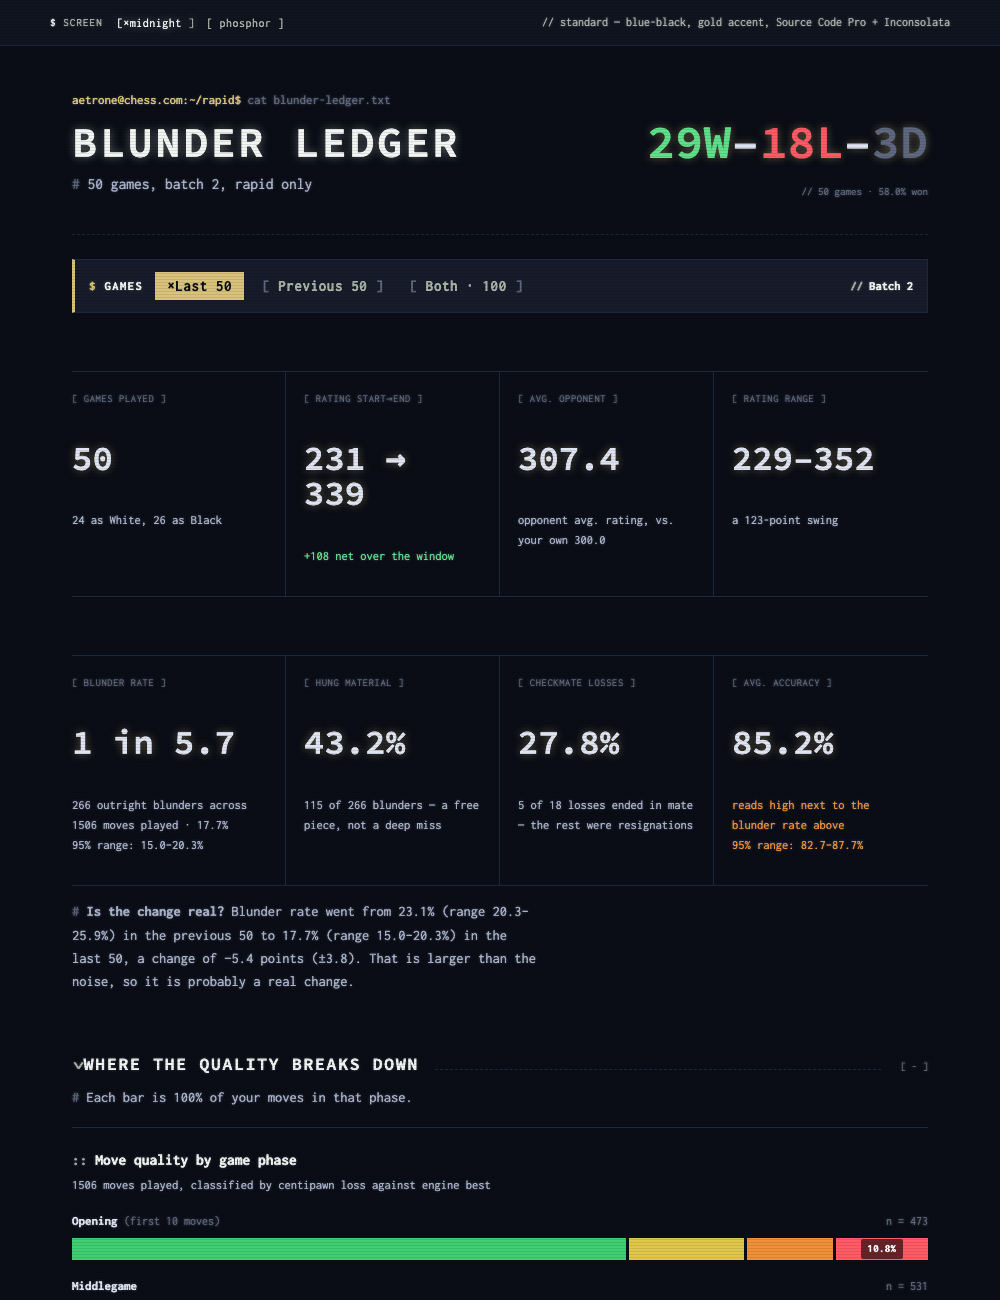
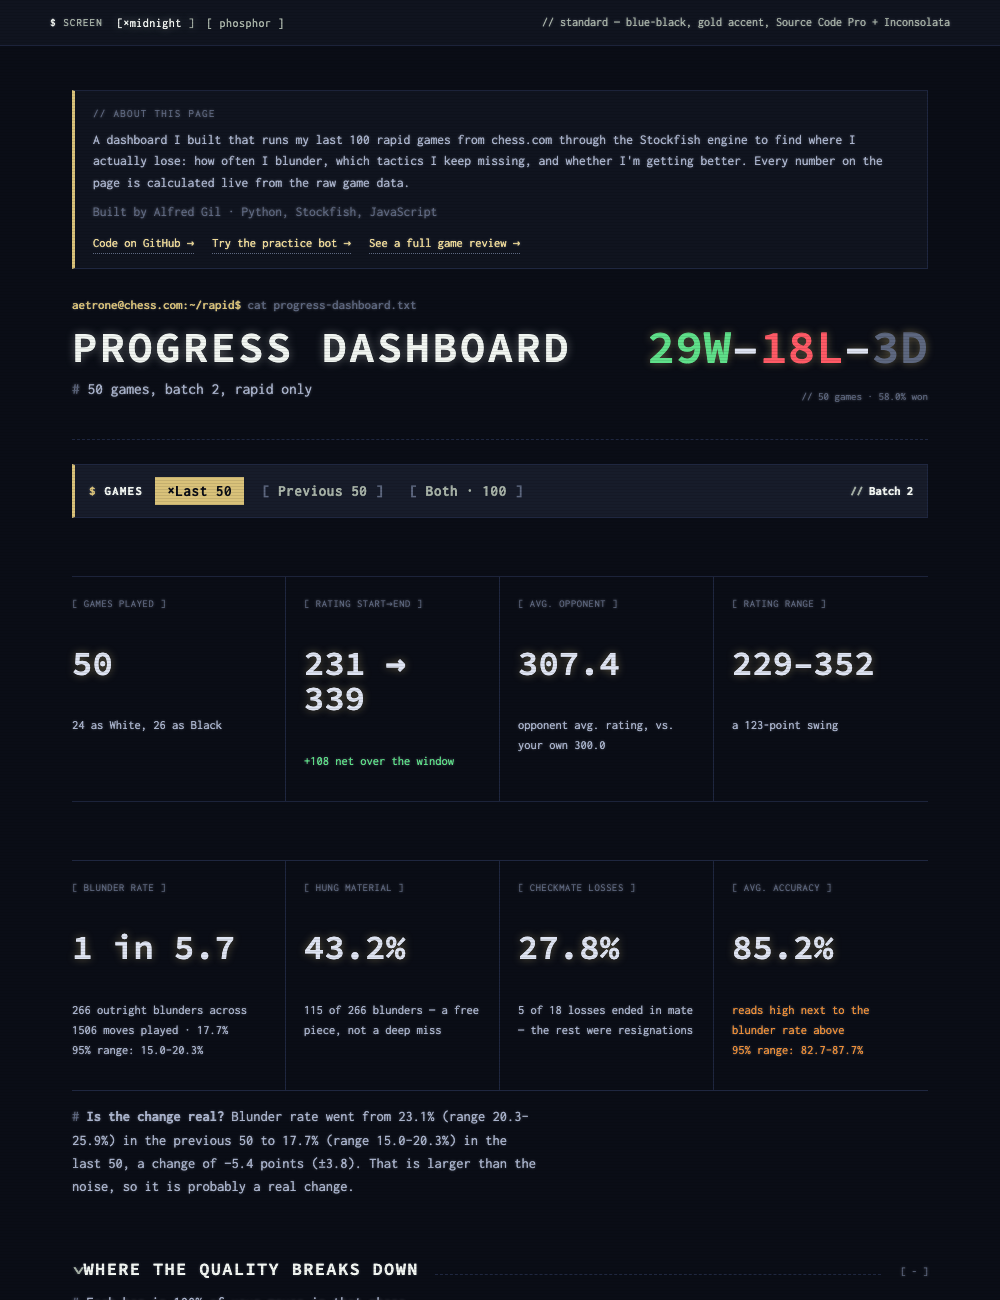
Rename tools: Progress Dashboard and Practice Bot
Updates page headlines, README, methodology, demo pages, and screenshots.
Game Review keeps its name; file names and links are unchanged.

diff --git a/docs/demo/practice.html b/docs/demo/practice.html
@@ -1,4 +1,4 @@
-<title>Blunder Bait</title>
+<title>Practice Bot</title>
 <link rel="preconnect" href="https://fonts.gstatic.com" crossorigin>
 <link rel="stylesheet" href="https://fonts.googleapis.com/css2?family=Source+Code+Pro:wght@500;600;700&family=Inconsolata:wght@400;500;700&display=swap">
 <style>
@@ -139,7 +139,7 @@
     <div>
       <p class="eyebrow">practice session</p>
       <div class="title-row">
-        <h1>Blunder Bait</h1>
+        <h1>Practice Bot</h1>
         <button class="btn ghost" id="btnReview">Review ↗</button>
       </div>
       <p class="sub">A sparring partner that leans into the tactical pattern you actually miss most — bot level and target recalculated from your latest bulk_review.py data each time you start a session.</p>
@@ -1596,7 +1596,7 @@
     document.getElementById("statTaken").textContent = state.baitTaken;
     document.getElementById("statPunished").textContent = Object.keys(state.punish).reduce(function (n, k) { return n + state.punish[k]; }, 0);
     document.getElementById("overBanner").innerHTML = state.over ? '<div class="over-banner">' + state.overText + "</div>" : "";
-    document.getElementById("footerNote").textContent = "The game in progress lives in this browser tab. Finished games and review runs are saved to this browser's own history (see History), kept separate from your real games and the ledger data. Run practice.py again to recheck your rating and blunder mix and rebuild this page.";
+    document.getElementById("footerNote").textContent = "The game in progress lives in this browser tab. Finished games and review runs are saved to this browser's own history (see History), kept separate from your real games and the dashboard data. Run practice.py again to recheck your rating and blunder mix and rebuild this page.";
   }
 
   // ---- events ----

diff --git a/templates/practice.html b/templates/practice.html
@@ -1,4 +1,4 @@
-<title>Blunder Bait</title>
+<title>Practice Bot</title>
 <link rel="preconnect" href="https://fonts.gstatic.com" crossorigin>
 <link rel="stylesheet" href="https://fonts.googleapis.com/css2?family=Source+Code+Pro:wght@500;600;700&family=Inconsolata:wght@400;500;700&display=swap">
 <style>
@@ -139,7 +139,7 @@
     <div>
       <p class="eyebrow">practice session</p>
       <div class="title-row">
-        <h1>Blunder Bait</h1>
+        <h1>Practice Bot</h1>
         <button class="btn ghost" id="btnReview">Review ↗</button>
       </div>
       <p class="sub">A sparring partner that leans into the tactical pattern you actually miss most — bot level and target recalculated from your latest bulk_review.py data each time you start a session.</p>
@@ -1596,7 +1596,7 @@
     document.getElementById("statTaken").textContent = state.baitTaken;
     document.getElementById("statPunished").textContent = Object.keys(state.punish).reduce(function (n, k) { return n + state.punish[k]; }, 0);
     document.getElementById("overBanner").innerHTML = state.over ? '<div class="over-banner">' + state.overText + "</div>" : "";
-    document.getElementById("footerNote").textContent = "The game in progress lives in this browser tab. Finished games and review runs are saved to this browser's own history (see History), kept separate from your real games and the ledger data. Run practice.py again to recheck your rating and blunder mix and rebuild this page.";
+    document.getElementById("footerNote").textContent = "The game in progress lives in this browser tab. Finished games and review runs are saved to this browser's own history (see History), kept separate from your real games and the dashboard data. Run practice.py again to recheck your rating and blunder mix and rebuild this page.";
   }
 
   // ---- events ----

diff --git a/templates/game-review.html b/templates/game-review.html
@@ -249,7 +249,7 @@
   /* Practice-sparring CTA (added 2026-09-18; enlarged into a
      proper card the same day — "pretty small... make it a little more
      apparent as to what that feature is for" — a bare text link didn't say
-     what chess-practice's Blunder Bait actually does, so this adds a one-line
+     what the Practice Bot actually does, so this adds a one-line
      description alongside the link, not just a bigger label. */
   .practice-cta { display: flex; align-items: center; gap: 14px; margin: 16px 0 0; padding: 14px 18px;
     border: 1px solid var(--line); border-radius: 6px; background: var(--surface);
@@ -310,7 +310,7 @@
       <a class="practice-cta" href="__PRACTICE_URL__" target="_blank" rel="noopener">
         <span class="practice-cta-icon">&#127907;</span>
         <span class="practice-cta-text">
-          <span class="practice-cta-title">Blunder Bait &mdash; practice sparring</span>
+          <span class="practice-cta-title">Practice Bot &mdash; live sparring</span>
           <span class="practice-cta-sub">Play a live bot tuned to bait the exact patterns behind your own blunders.</span>
         </span>
         <span class="practice-cta-arrow">&rarr;</span>

diff --git a/docs/demo/review-174239359602.html b/docs/demo/review-174239359602.html
@@ -249,7 +249,7 @@
   /* Practice-sparring CTA (added 2026-09-18; enlarged into a
      proper card the same day — "pretty small... make it a little more
      apparent as to what that feature is for" — a bare text link didn't say
-     what chess-practice's Blunder Bait actually does, so this adds a one-line
+     what the Practice Bot actually does, so this adds a one-line
      description alongside the link, not just a bigger label. */
   .practice-cta { display: flex; align-items: center; gap: 14px; margin: 16px 0 0; padding: 14px 18px;
     border: 1px solid var(--line); border-radius: 6px; background: var(--surface);
@@ -310,7 +310,7 @@
       <a class="practice-cta" href="practice.html" target="_blank" rel="noopener">
         <span class="practice-cta-icon">&#127907;</span>
         <span class="practice-cta-text">
-          <span class="practice-cta-title">Blunder Bait &mdash; practice sparring</span>
+          <span class="practice-cta-title">Practice Bot &mdash; live sparring</span>
           <span class="practice-cta-sub">Play a live bot tuned to bait the exact patterns behind your own blunders.</span>
         </span>
         <span class="practice-cta-arrow">&rarr;</span>

diff --git a/docs/demo/review-174248204660.html b/docs/demo/review-174248204660.html
@@ -249,7 +249,7 @@
   /* Practice-sparring CTA (added 2026-09-18; enlarged into a
      proper card the same day — "pretty small... make it a little more
      apparent as to what that feature is for" — a bare text link didn't say
-     what chess-practice's Blunder Bait actually does, so this adds a one-line
+     what the Practice Bot actually does, so this adds a one-line
      description alongside the link, not just a bigger label. */
   .practice-cta { display: flex; align-items: center; gap: 14px; margin: 16px 0 0; padding: 14px 18px;
     border: 1px solid var(--line); border-radius: 6px; background: var(--surface);
@@ -310,7 +310,7 @@
       <a class="practice-cta" href="practice.html" target="_blank" rel="noopener">
         <span class="practice-cta-icon">&#127907;</span>
         <span class="practice-cta-text">
-          <span class="practice-cta-title">Blunder Bait &mdash; practice sparring</span>
+          <span class="practice-cta-title">Practice Bot &mdash; live sparring</span>
           <span class="practice-cta-sub">Play a live bot tuned to bait the exact patterns behind your own blunders.</span>
         </span>
         <span class="practice-cta-arrow">&rarr;</span>

diff --git a/docs/demo/review-174250957868.html b/docs/demo/review-174250957868.html
@@ -249,7 +249,7 @@
   /* Practice-sparring CTA (added 2026-09-18; enlarged into a
      proper card the same day — "pretty small... make it a little more
      apparent as to what that feature is for" — a bare text link didn't say
-     what chess-practice's Blunder Bait actually does, so this adds a one-line
+     what the Practice Bot actually does, so this adds a one-line
      description alongside the link, not just a bigger label. */
   .practice-cta { display: flex; align-items: center; gap: 14px; margin: 16px 0 0; padding: 14px 18px;
     border: 1px solid var(--line); border-radius: 6px; background: var(--surface);
@@ -310,7 +310,7 @@
       <a class="practice-cta" href="practice.html" target="_blank" rel="noopener">
         <span class="practice-cta-icon">&#127907;</span>
         <span class="practice-cta-text">
-          <span class="practice-cta-title">Blunder Bait &mdash; practice sparring</span>
+          <span class="practice-cta-title">Practice Bot &mdash; live sparring</span>
           <span class="practice-cta-sub">Play a live bot tuned to bait the exact patterns behind your own blunders.</span>
         </span>
         <span class="practice-cta-arrow">&rarr;</span>

diff --git a/docs/demo/review-174251610582.html b/docs/demo/review-174251610582.html
@@ -249,7 +249,7 @@
   /* Practice-sparring CTA (added 2026-09-18; enlarged into a
      proper card the same day — "pretty small... make it a little more
      apparent as to what that feature is for" — a bare text link didn't say
-     what chess-practice's Blunder Bait actually does, so this adds a one-line
+     what the Practice Bot actually does, so this adds a one-line
      description alongside the link, not just a bigger label. */
   .practice-cta { display: flex; align-items: center; gap: 14px; margin: 16px 0 0; padding: 14px 18px;
     border: 1px solid var(--line); border-radius: 6px; background: var(--surface);
@@ -310,7 +310,7 @@
       <a class="practice-cta" href="practice.html" target="_blank" rel="noopener">
         <span class="practice-cta-icon">&#127907;</span>
         <span class="practice-cta-text">
-          <span class="practice-cta-title">Blunder Bait &mdash; practice sparring</span>
+          <span class="practice-cta-title">Practice Bot &mdash; live sparring</span>
           <span class="practice-cta-sub">Play a live bot tuned to bait the exact patterns behind your own blunders.</span>
         </span>
         <span class="practice-cta-arrow">&rarr;</span>

diff --git a/docs/demo/review-174254848448.html b/docs/demo/review-174254848448.html
@@ -249,7 +249,7 @@
   /* Practice-sparring CTA (added 2026-09-18; enlarged into a
      proper card the same day — "pretty small... make it a little more
      apparent as to what that feature is for" — a bare text link didn't say
-     what chess-practice's Blunder Bait actually does, so this adds a one-line
+     what the Practice Bot actually does, so this adds a one-line
      description alongside the link, not just a bigger label. */
   .practice-cta { display: flex; align-items: center; gap: 14px; margin: 16px 0 0; padding: 14px 18px;
     border: 1px solid var(--line); border-radius: 6px; background: var(--surface);
@@ -310,7 +310,7 @@
       <a class="practice-cta" href="practice.html" target="_blank" rel="noopener">
         <span class="practice-cta-icon">&#127907;</span>
         <span class="practice-cta-text">
-          <span class="practice-cta-title">Blunder Bait &mdash; practice sparring</span>
+          <span class="practice-cta-title">Practice Bot &mdash; live sparring</span>
           <span class="practice-cta-sub">Play a live bot tuned to bait the exact patterns behind your own blunders.</span>
         </span>
         <span class="practice-cta-arrow">&rarr;</span>

diff --git a/docs/demo/review-174255098032.html b/docs/demo/review-174255098032.html
@@ -249,7 +249,7 @@
   /* Practice-sparring CTA (added 2026-09-18; enlarged into a
      proper card the same day — "pretty small... make it a little more
      apparent as to what that feature is for" — a bare text link didn't say
-     what chess-practice's Blunder Bait actually does, so this adds a one-line
+     what the Practice Bot actually does, so this adds a one-line
      description alongside the link, not just a bigger label. */
   .practice-cta { display: flex; align-items: center; gap: 14px; margin: 16px 0 0; padding: 14px 18px;
     border: 1px solid var(--line); border-radius: 6px; background: var(--surface);
@@ -310,7 +310,7 @@
       <a class="practice-cta" href="practice.html" target="_blank" rel="noopener">
         <span class="practice-cta-icon">&#127907;</span>
         <span class="practice-cta-text">
-          <span class="practice-cta-title">Blunder Bait &mdash; practice sparring</span>
+          <span class="practice-cta-title">Practice Bot &mdash; live sparring</span>
           <span class="practice-cta-sub">Play a live bot tuned to bait the exact patterns behind your own blunders.</span>
         </span>
         <span class="practice-cta-arrow">&rarr;</span>

diff --git a/docs/demo/review-174297110784.html b/docs/demo/review-174297110784.html
@@ -249,7 +249,7 @@
   /* Practice-sparring CTA (added 2026-09-18; enlarged into a
      proper card the same day — "pretty small... make it a little more
      apparent as to what that feature is for" — a bare text link didn't say
-     what chess-practice's Blunder Bait actually does, so this adds a one-line
+     what the Practice Bot actually does, so this adds a one-line
      description alongside the link, not just a bigger label. */
   .practice-cta { display: flex; align-items: center; gap: 14px; margin: 16px 0 0; padding: 14px 18px;
     border: 1px solid var(--line); border-radius: 6px; background: var(--surface);
@@ -310,7 +310,7 @@
       <a class="practice-cta" href="practice.html" target="_blank" rel="noopener">
         <span class="practice-cta-icon">&#127907;</span>
         <span class="practice-cta-text">
-          <span class="practice-cta-title">Blunder Bait &mdash; practice sparring</span>
+          <span class="practice-cta-title">Practice Bot &mdash; live sparring</span>
           <span class="practice-cta-sub">Play a live bot tuned to bait the exact patterns behind your own blunders.</span>
         </span>
         <span class="practice-cta-arrow">&rarr;</span>

diff --git a/docs/demo/review-174297569306.html b/docs/demo/review-174297569306.html
@@ -249,7 +249,7 @@
   /* Practice-sparring CTA (added 2026-09-18; enlarged into a
      proper card the same day — "pretty small... make it a little more
      apparent as to what that feature is for" — a bare text link didn't say
-     what chess-practice's Blunder Bait actually does, so this adds a one-line
+     what the Practice Bot actually does, so this adds a one-line
      description alongside the link, not just a bigger label. */
   .practice-cta { display: flex; align-items: center; gap: 14px; margin: 16px 0 0; padding: 14px 18px;
     border: 1px solid var(--line); border-radius: 6px; background: var(--surface);
@@ -310,7 +310,7 @@
       <a class="practice-cta" href="practice.html" target="_blank" rel="noopener">
         <span class="practice-cta-icon">&#127907;</span>
         <span class="practice-cta-text">
-          <span class="practice-cta-title">Blunder Bait &mdash; practice sparring</span>
+          <span class="practice-cta-title">Practice Bot &mdash; live sparring</span>
           <span class="practice-cta-sub">Play a live bot tuned to bait the exact patterns behind your own blunders.</span>
         </span>
         <span class="practice-cta-arrow">&rarr;</span>

diff --git a/docs/demo/review-174336875120.html b/docs/demo/review-174336875120.html
@@ -249,7 +249,7 @@
   /* Practice-sparring CTA (added 2026-09-18; enlarged into a
      proper card the same day — "pretty small... make it a little more
      apparent as to what that feature is for" — a bare text link didn't say
-     what chess-practice's Blunder Bait actually does, so this adds a one-line
+     what the Practice Bot actually does, so this adds a one-line
      description alongside the link, not just a bigger label. */
   .practice-cta { display: flex; align-items: center; gap: 14px; margin: 16px 0 0; padding: 14px 18px;
     border: 1px solid var(--line); border-radius: 6px; background: var(--surface);
@@ -310,7 +310,7 @@
       <a class="practice-cta" href="practice.html" target="_blank" rel="noopener">
         <span class="practice-cta-icon">&#127907;</span>
         <span class="practice-cta-text">
-          <span class="practice-cta-title">Blunder Bait &mdash; practice sparring</span>
+          <span class="practice-cta-title">Practice Bot &mdash; live sparring</span>
           <span class="practice-cta-sub">Play a live bot tuned to bait the exact patterns behind your own blunders.</span>
         </span>
         <span class="practice-cta-arrow">&rarr;</span>
